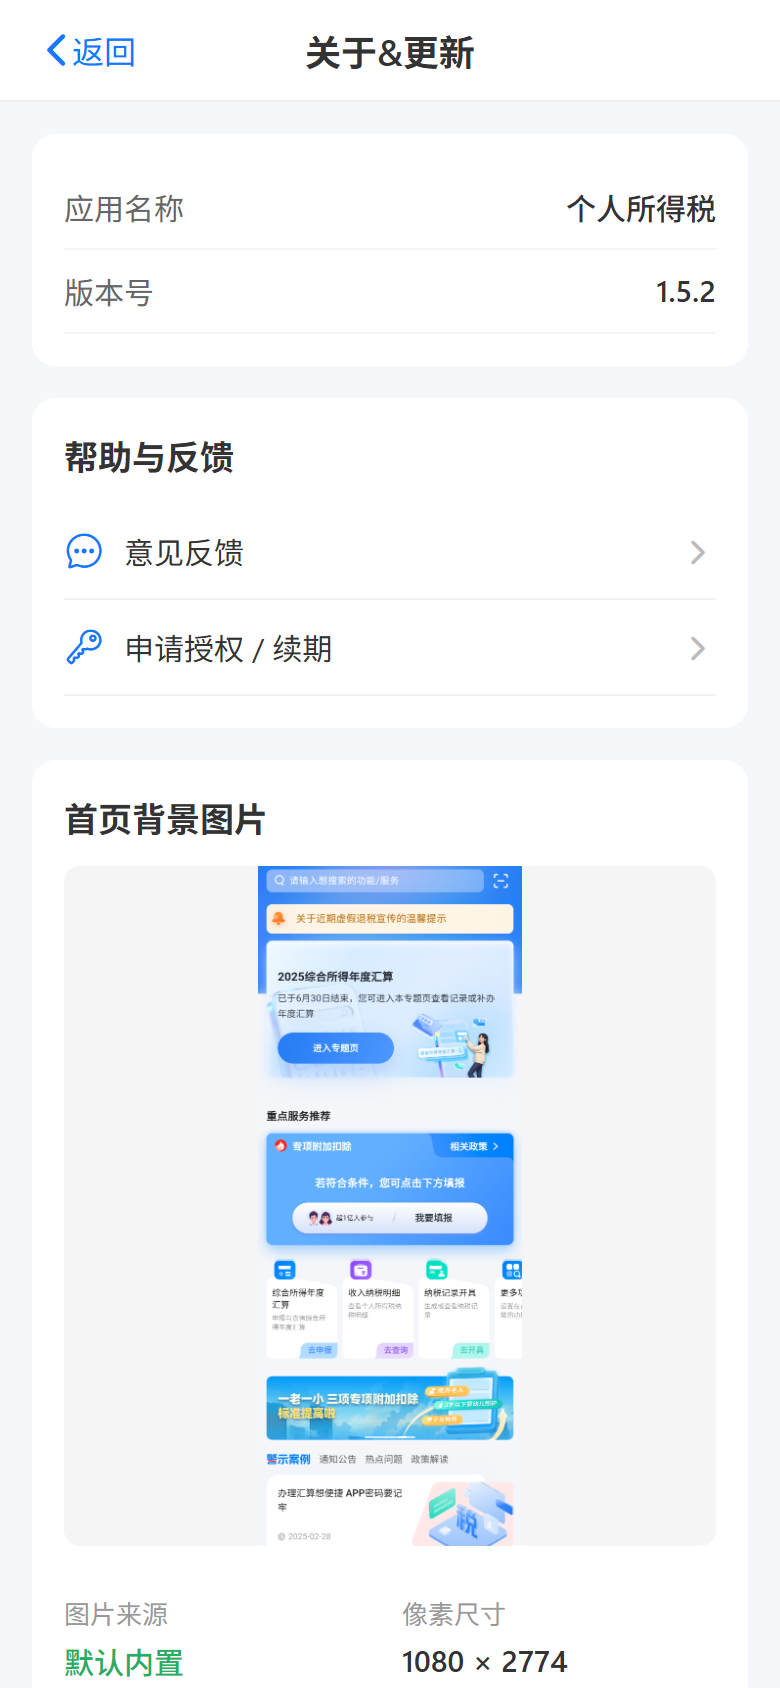
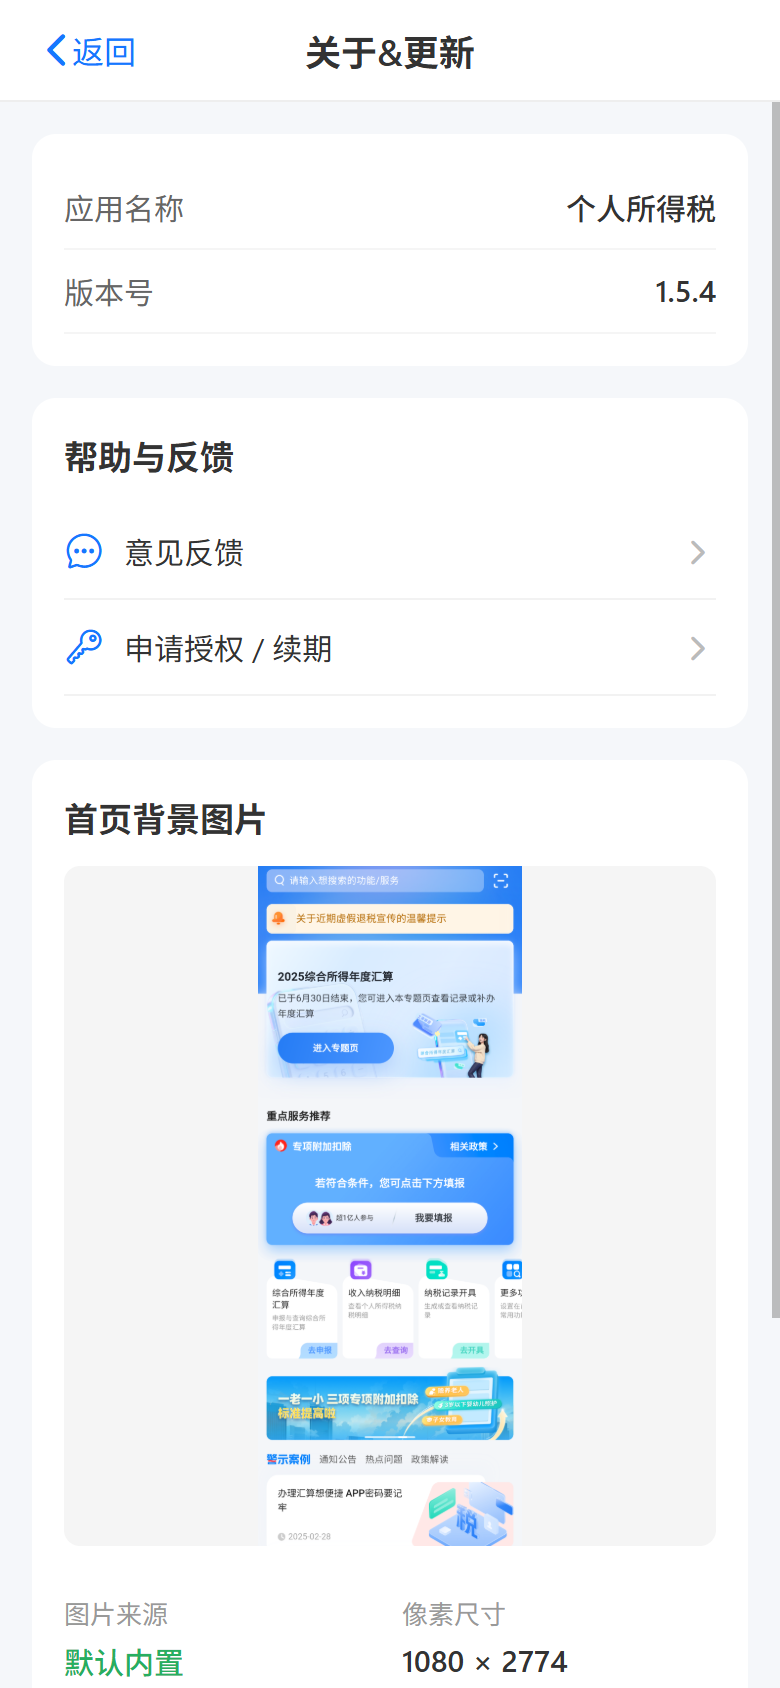
docs: 同步 v1.5.5 版本号与下载链接，更新脱敏演示截图

Changed region(s): [[0.9846, 0.0616, 1.0, 0.8009], [0.8923, 0.154, 0.9231, 0.1848]]

diff --git a/index.html b/index.html
@@ -41,6 +41,11 @@ body {
 }
 .container { max-width: 1080px; margin: 0 auto; padding: 0 20px; }
 
+.hero-actions { margin-top: 28px; display: flex; gap: 10px; justify-content: center; flex-wrap: wrap; align-items: center; }
+.hero-btn { display: inline-block; border-radius: 999px; text-decoration:none; }
+.hero-btn-primary { background: #fff; color: #1e5eff; font-weight: 700; font-size: 16px; padding: 14px 36px; box-shadow: 0 4px 14px rgba(0,0,0,0.15); }
+.hero-btn-ghost { color: #fff; font-weight: 600; font-size: 15px; padding: 13px 28px; border: 1px solid rgba(255,255,255,0.55); }
+
 .section { padding: 56px 0; }
 .section h2 {
   font-size: 26px; font-weight: 800; text-align: center;
@@ -258,6 +263,62 @@ footer { text-align: center; padding: 40px 20px; color: #9ca3af; font-size: 13px
 .gal-title { display: flex; align-items: center; gap: 10px; font-size: 16px; font-weight: 800; color: #1e5eff; margin: 0 0 16px; }
 .gal-title em { font-style: normal; font-size: 12px; font-weight: 700; color: #6b7280; background: #eef4ff; border-radius: 999px; padding: 2px 10px; }
 .gal-title::after { content: ""; flex: 1; height: 1px; background: linear-gradient(90deg, #dbe7ff, transparent); }
+
+/* ===== 移动端响应式适配 ===== */
+html, body { overflow-x: hidden; }
+img { max-width: 100%; }
+
+@media (max-width: 640px) {
+  .container { padding: 0 16px; }
+
+  .hero { padding: 40px 16px 32px; }
+  .hero .logo { width: 72px; height: 72px; font-size: 38px; border-radius: 18px; margin-bottom: 14px; }
+  .hero h1 { font-size: 24px; letter-spacing: .5px; }
+  .hero .en { font-size: 13px; letter-spacing: 1px; }
+  .hero .tagline { margin-top: 14px; font-size: 15px; }
+  .hero .badges { gap: 8px; margin-top: 18px; }
+  .hero .badge { padding: 5px 12px; font-size: 12px; }
+  .hero-actions { flex-direction: column; align-items: stretch; gap: 12px; padding: 0 4px; }
+  .hero-btn { text-align: center; }
+  .hero-btn-primary, .hero-btn-ghost { padding: 13px 20px; font-size: 15px; }
+  .hero p[style] { font-size: 12.5px !important; }
+
+  .section { padding: 32px 0; }
+  .section h2 { font-size: 22px; }
+  .section .sub { font-size: 13px; margin-bottom: 24px; }
+
+  .features { grid-template-columns: 1fr; gap: 16px; }
+  .feat { padding: 20px; }
+  .feat .icon { width: 46px; height: 46px; font-size: 23px; }
+
+  .gallery { grid-template-columns: 1fr; gap: 16px; }
+  .shot .cap { padding: 12px 14px; }
+
+  .license { padding: 22px 18px; }
+  .guide { padding: 22px 18px; }
+  .guide h3 { font-size: 18px; }
+  .guide p, .guide li { font-size: 14px; }
+  .price-grid { grid-template-columns: 1fr; gap: 12px; }
+
+  .ix-stats { gap: 10px; }
+  .ix-stat { flex: 1 1 30%; min-width: 0; padding: 10px 8px; }
+  .ix-stat b { font-size: 20px; }
+  .ix-card { padding: 14px 14px 13px 16px; }
+  .ix-path { font-size: 11px; }
+  .ix-res { font-size: 12.5px; }
+
+  .gal-group { margin-bottom: 28px; }
+  .gal-title { font-size: 15px; margin-bottom: 12px; }
+
+  footer { padding: 28px 16px; font-size: 12px; }
+}
+
+@media (max-width: 380px) {
+  .hero h1 { font-size: 22px; }
+  .ix-stat { flex: 1 1 44%; }
+  .ix-stats { row-gap: 10px; }
+}
+
 </style>
 </head>
 <body>
@@ -271,11 +332,11 @@ footer { text-align: center; padding: 40px 20px; color: #9ca3af; font-size: 13px
     <span class="badge">🖼 截图底图复刻渲染</span>
     <span class="badge">💾 本地数据存储</span>
   </div>
-  <div style="margin-top:28px;">
-    <a href="https://github.com/geshuiapp/geshui2026/releases/download/v1.5.4/geshui_v1.5.4.apk" style="display:inline-block;background:#fff;color:#1e5eff;font-weight:700;font-size:16px;padding:14px 36px;border-radius:999px;text-decoration:none;box-shadow:0 4px 14px rgba(0,0,0,0.15);">⬇ 下载 Android APK v1.5.4</a>
-    <a href="./query.html" style="display:inline-block;margin-left:10px;color:#fff;font-weight:600;font-size:15px;padding:13px 28px;border-radius:999px;text-decoration:none;border:1px solid rgba(255,255,255,0.55);">🔍 查询授权状态</a>
+  <div class="hero-actions">
+    <a class="hero-btn hero-btn-primary" href="https://github.com/geshuiapp/geshui2026/releases/download/v1.5.5/geshui_v1.5.5.apk">⬇ 下载 Android APK v1.5.5</a>
+    <a class="hero-btn hero-btn-ghost" href="./query.html">🔍 查询授权状态</a>
   </div>
-  <p style="margin-top:16px;font-size:13px;line-height:1.8;color:rgba(255,255,255,0.82);">仅提供当前版本 v1.5.4，旧版本均已停止分发。换机或重装请直接安装最新版。</p>
+  <p style="margin-top:16px;font-size:13px;line-height:1.8;color:rgba(255,255,255,0.82);">仅提供当前版本 v1.5.5，旧版本均已停止分发。换机或重装请直接安装最新版。</p>
 </div>
 
 <div class="container">
@@ -391,11 +452,11 @@ footer { text-align: center; padding: 40px 20px; color: #9ca3af; font-size: 13px
   <!-- 用户使用说明书 -->
   <div class="section">
     <h2>用户使用说明书</h2>
-    <p class="sub">从安装到日常使用 · 适用 v1.5.4 · 含换机迁移与常见问题</p>
+    <p class="sub">从安装到日常使用 · 适用 v1.5.5 · 含换机迁移与常见问题</p>
     <div class="guide">
             <h3>📱 一、安装</h3>
       <ol>
-        <li>下载最新版 APK（<strong>geshui_v1.5.4.apk</strong>）</li>
+        <li>下载最新版 APK（<strong>geshui_v1.5.5.apk</strong>）</li>
         <li>手机设置 → 允许安装未知来源应用</li>
         <li>点击安装包，按提示完成安装</li>
       </ol>

diff --git a/guide.html b/guide.html
@@ -49,7 +49,7 @@
   <div class="docmeta">完整版 · 21 节 · 面向首次使用的新用户</div>
 
 <blockquote>
-<p>适用版本 <strong>v1.5.4</strong>（versionCode 8）· 更新于 2026-11-17</p>
+<p>适用版本 <strong>v1.5.5</strong>（versionCode 9）· 更新于 2026-11-17</p>
 </blockquote>
 <p>本说明书按「从下载到日常使用」的顺序编写，第一次用的朋友照着往下走即可。页面上的功能可能随版本调整，若与说明书不一致，以 App 内实际显示为准。</p>
 <hr />
@@ -123,7 +123,7 @@
 <hr />
 <h2 id="二安装">二、安装</h2>
 <ol>
-<li>从展示站或 GitHub Release 下载最新版 APK（<code>geshui_v1.5.4.apk</code>）</li>
+<li>从展示站或 GitHub Release 下载最新版 APK（<code>geshui_v1.5.5.apk</code>）</li>
 <li>手机「设置 → 安全/应用管理」中允许当前文件管理器或浏览器「安装未知应用」</li>
 <li>点击安装包，按提示完成安装</li>
 <li>安装完成后可以把「安装未知应用」权限关回去</li>
@@ -917,7 +917,7 @@
 <tbody>
 <tr>
 <td><strong>版本信息</strong></td>
-<td>当前版本号（v1.5.4）</td>
+<td>当前版本号（v1.5.5）</td>
 </tr>
 <tr>
 <td><strong>帮助与反馈</strong></td>
@@ -1042,7 +1042,7 @@
 </tr>
 <tr>
 <td>怎么确认自己是最新版</td>
-<td>「我的 → 关于 &amp; 更新」，版本号显示 1.5.4 即最新</td>
+<td>「我的 → 关于 &amp; 更新」，版本号显示 1.5.5 即最新</td>
 </tr>
 <tr>
 <td>能退款吗</td>
@@ -1056,7 +1056,14 @@
 </table>
 <hr />
 <h2 id="二十更新日志">二十、更新日志</h2>
-<h3>v1.5.4（当前版本）</h3>
+<h3>v1.5.5（当前版本）</h3>
+<ul>
+<li>本地缓存版本升级：旧版本地缓存（可能含早期录入的单位名、姓名、证件号）作废，首次启动回到脱敏默认占位</li>
+<li>演示数据与页面素材进一步脱敏：单位名称、姓名、证件号、银行卡号统一为占位符</li>
+<li>版本号升至 1.5.5（versionCode 9）</li>
+</ul>
+<hr />
+<h3>v1.5.4</h3>
 <ul>
 <li>收入纳税明细卡片按官方版式调整：白底卡片、灰色分隔间距，标题、月份与字段字号、字色对齐官方样式</li>
 <li>扣缴义务人名称超过 10 个汉字时尾部省略，右箭头固定在每行最右侧，省略号与箭头之间留白</li>

diff --git a/USER_GUIDE.md b/USER_GUIDE.md
@@ -1,6 +1,6 @@
 # 个人所得税 APP 用户使用说明书
 
-> 适用版本 **v1.5.4**（versionCode 8）· 更新于 2026-11-17
+> 适用版本 **v1.5.5**（versionCode 9）· 更新于 2026-11-17
 
 本说明书按「从下载到日常使用」的顺序编写，第一次用的朋友照着往下走即可。页面上的功能可能随版本调整，若与说明书不一致，以 App 内实际显示为准。
 
@@ -59,7 +59,7 @@
 
 ## 二、安装
 
-1. 从展示站或 GitHub Release 下载最新版 APK（`geshui_v1.5.4.apk`）
+1. 从展示站或 GitHub Release 下载最新版 APK（`geshui_v1.5.5.apk`）
 2. 手机「设置 → 安全/应用管理」中允许当前文件管理器或浏览器「安装未知应用」
 3. 点击安装包，按提示完成安装
 4. 安装完成后可以把「安装未知应用」权限关回去
@@ -465,7 +465,7 @@ App 里相当一部分功能**没有按钮**，靠长按或点热区触发；下
 
 | 区块 | 内容 |
 |---|---|
-| **版本信息** | 当前版本号（v1.5.4） |
+| **版本信息** | 当前版本号（v1.5.5） |
 | **帮助与反馈** | 意见反馈、申请授权/续期 |
 | **首页背景图片** | 预览当前背景图；显示来源（自定义/默认）、像素尺寸、DPI、文件大小；「上传替换」「调整热区」「恢复默认」 |
 
@@ -526,7 +526,7 @@ App 里相当一部分功能**没有按钮**，靠长按或点热区触发；下
 | 提示「检测到系统时间异常」 | 手机时间与真实时间偏差太大，开启「自动设置时间」并联网校准后重试 |
 | 付款后多久能收到激活码 | 管理员人工核对，工作时间较快；长时间没收到请带上付款凭证联系管理员 |
 | 优惠码提示不可用 | 检查是否过期、是否已达使用上限；切换套餐后需要重新点校验 |
-| 怎么确认自己是最新版 | 「我的 → 关于 & 更新」，版本号显示 1.5.4 即最新 |
+| 怎么确认自己是最新版 | 「我的 → 关于 & 更新」，版本号显示 1.5.5 即最新 |
 | 能退款吗 | 软件授权是在线交付的数字化商品，不适用七日无理由退货；请先试用再购买，特殊情况联系管理员协商 |
 | 数据会传到服务器吗 | 业务数据只在本机；只有激活、试用、申请、反馈这些操作会联网传必要信息 |
 
@@ -534,7 +534,13 @@ App 里相当一部分功能**没有按钮**，靠长按或点热区触发；下
 
 ## 二十、更新日志
 
-### v1.5.4（当前版本）
+### v1.5.5（当前版本）
+
+- 本地缓存版本升级：旧版本地缓存（可能含早期录入的单位名、姓名、证件号）作废，首次启动回到脱敏默认占位
+- 演示数据与页面素材进一步脱敏：单位名称、姓名、证件号、银行卡号统一为占位符
+- 版本号升至 1.5.5（versionCode 9）
+
+### v1.5.4
 
 - 收入纳税明细卡片按官方版式调整：白底卡片、灰色分隔间距，标题、月份与字段字号、字色对齐官方样式
 - 扣缴义务人名称超过 10 个汉字时尾部省略，右箭头固定在每行最右侧，省略号与箭头之间留白

diff --git a/README.md b/README.md
@@ -2,11 +2,11 @@
 
 个税界面与功能复刻的学习演示项目，支持本地离线运行。
 
-**当前版本：v1.5.4**
+**当前版本：v1.5.5**
 
 ## 📥 下载
 
-**[⬇ 点击下载 Android APK v1.5.4](https://github.com/geshuiapp/geshui2026/releases/download/v1.5.4/geshui_v1.5.4.apk)**
+**[⬇ 点击下载 Android APK v1.5.5](https://github.com/geshuiapp/geshui2026/releases/download/v1.5.5/geshui_v1.5.5.apk)**
 
 > 下载后在手机上安装即可使用，无需联网服务器，所有数据存储在本地。
 
@@ -19,6 +19,11 @@
 内容包括：安装、首次启动免责声明、免费试用、激活、设备码绑定、换机迁移、续期与解绑、各页面操作说明、申请授权、数据保存与清空规则、20 条常见问题。
 
 ## 📝 更新日志
+
+### v1.5.5
+- 本地缓存版本升级：旧版本地缓存（可能含早期录入的单位名、姓名、证件号）作废，首次启动回到脱敏默认占位
+- 演示数据与页面素材进一步脱敏：单位名称、姓名、证件号、银行卡号统一为占位符
+- 版本号升至 1.5.5（versionCode 9）
 
 ### v1.5.4
 - 收入纳税明细卡片按官方版式调整：白底卡片、灰色分隔间距，标题、月份与字段字号、字色对齐官方样式
